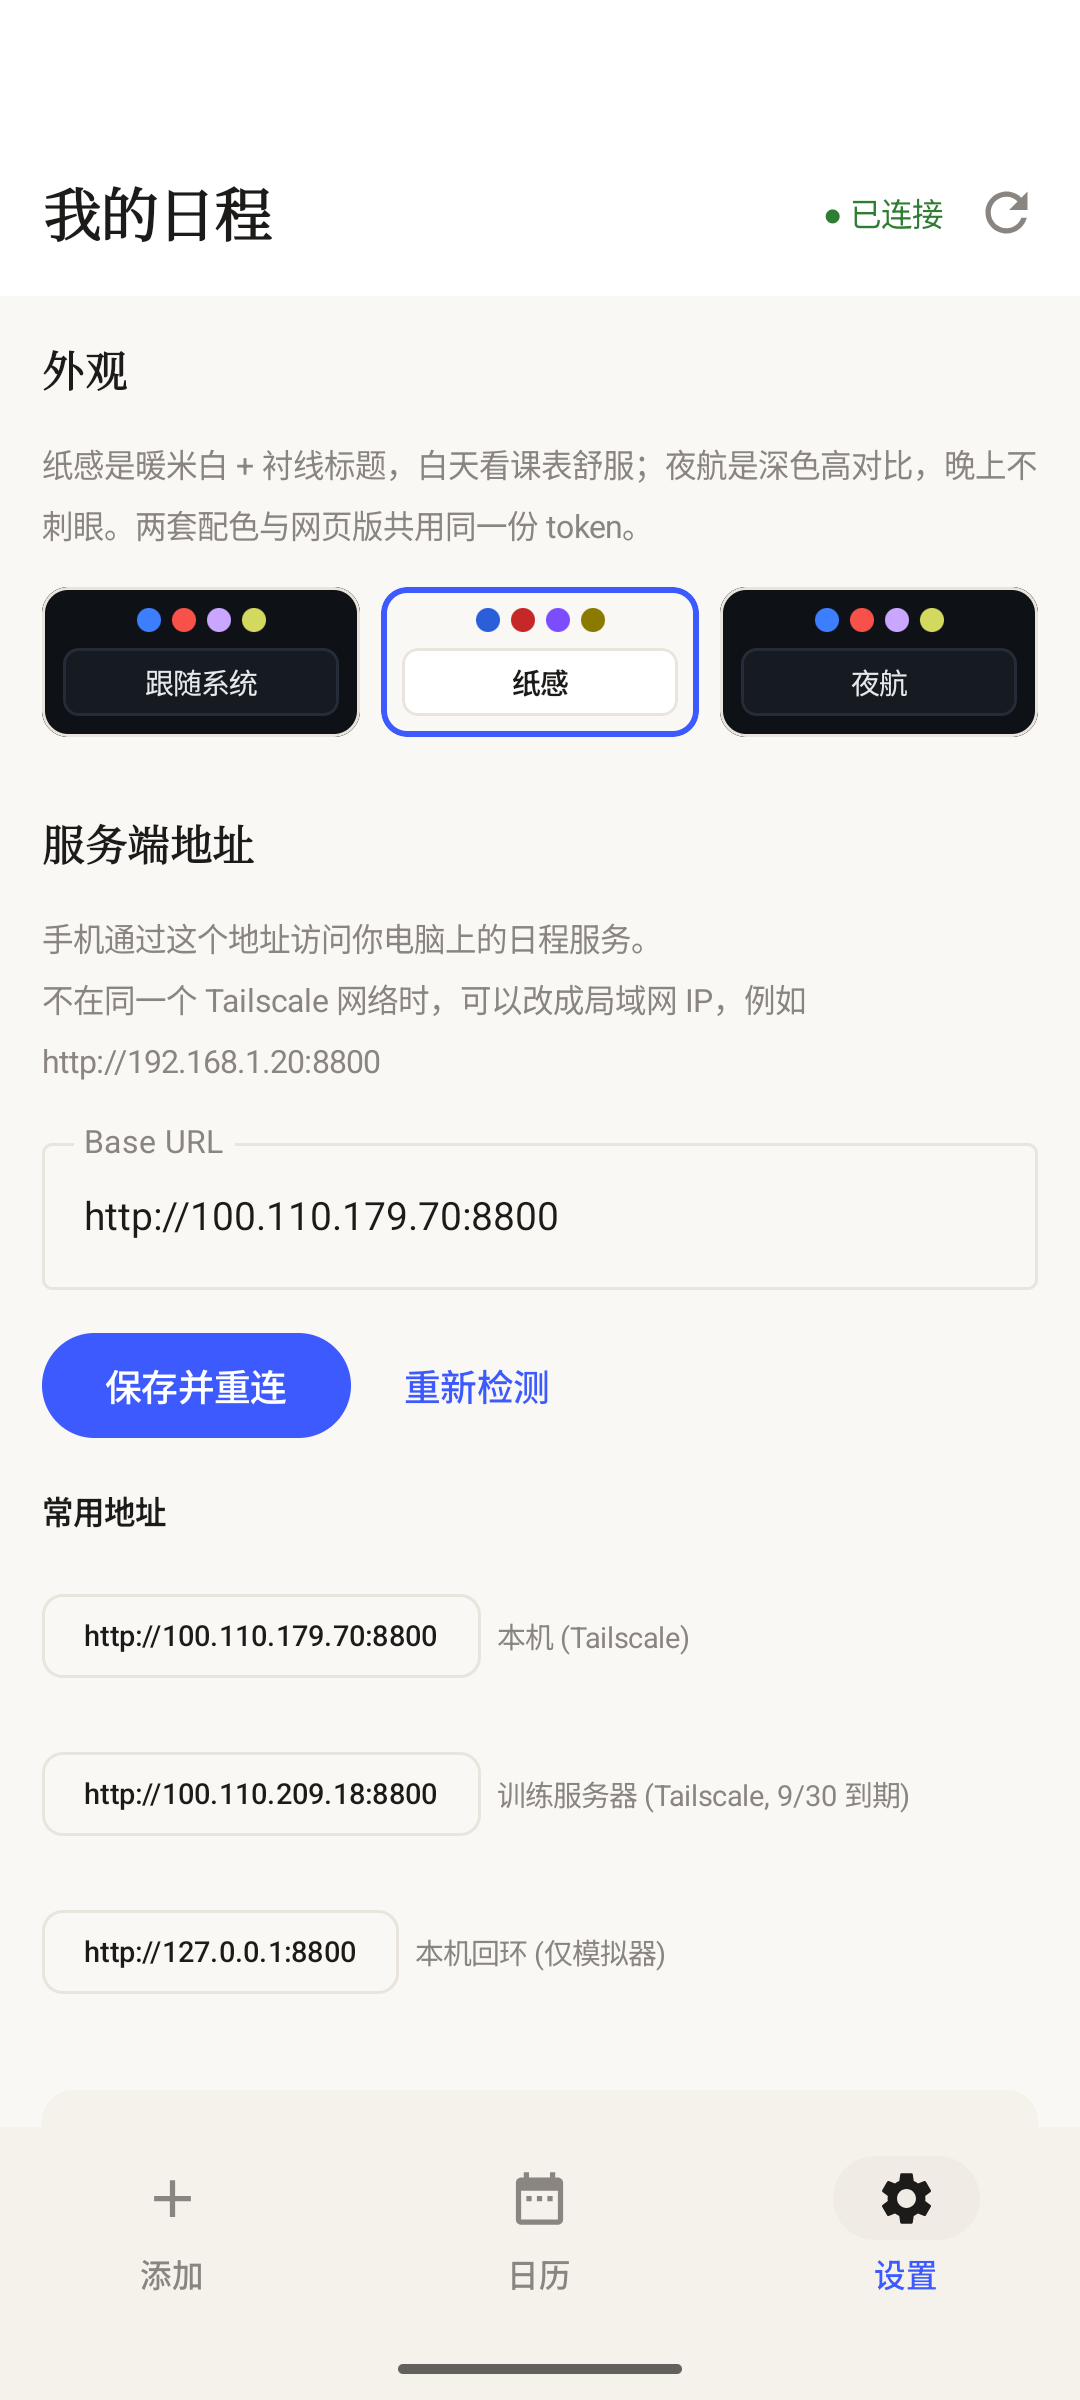
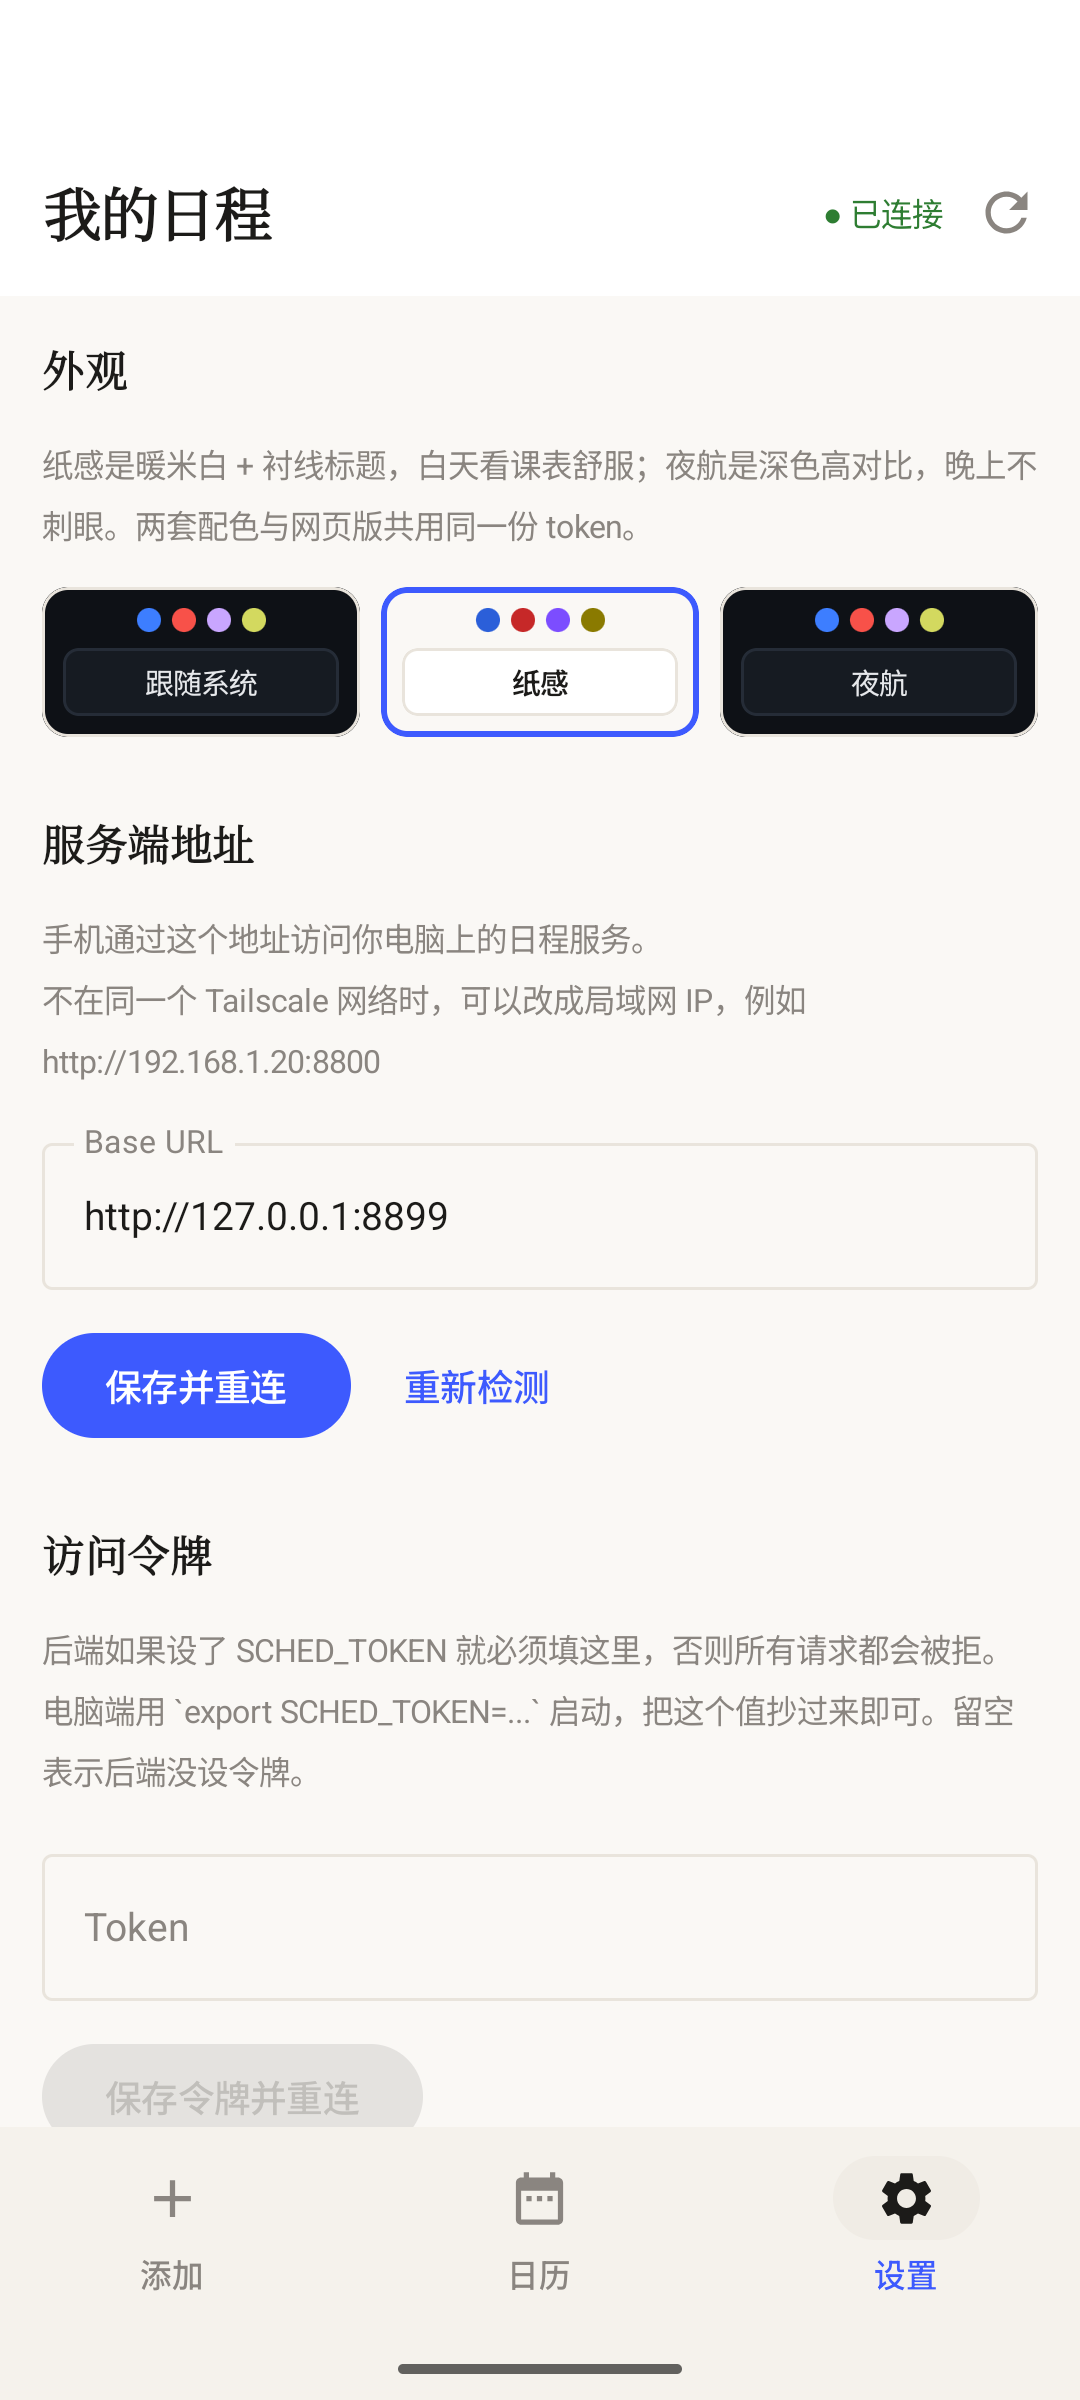
匿名评审前的脱敏：脚本路径、截图、示例数据
赛事（全国大学生软件创新大赛等）普遍要求**匿名评审** —— 材料里不得出现校名、
姓名、指导老师、学院、专业、班级。开源仓库和截图同样属于"材料"。

## 1. 脚本里的本机用户名（4 处）
local/*.ps1 里写死了 C:\Users\zaoch\anaconda3\python.exe，暴露本机用户名。
改成 $env:USERPROFILE 拼接。

## 2. 截图全部重拍（原来带真实 Tailscale IP）
旧的 android-night-settings.png 里能看到 100.110.179.70 和服务器
100.110.209.18，而且那还是改 Prefs 之前的旧图。7 张截图全部用中性数据重拍。

新增 scripts/seed_demo.py：生成一份中性演示数据（计算机原理/组会/高数期中/
实验报告/给家里打电话…），不含任何可定位到个人或学校的内容。
截图走 adb reverse + 127.0.0.1，界面里也不出现真实地址。

## 3. 示例数据里像凭据的内容
"记一下，实验室门禁密码是 8823" 这类示例备忘看起来像真凭据，换成日常内容。
（"快递取件码 8823" 保留 —— 那是人人都有的取件码，不构成敏感信息。）

## 4. 新增 scripts/privacy_audit.py 并接入 CI
扫邮箱/手机号/身份证/姓名拼音/本机用户名/学号/学校关键词/像凭据的示例。
**分了 HIGH 和提示两级** —— 不分级的话"学院""取件码"这类误报会让工具在 CI 里
没法用（第一次跑就有 124 处第三方库的 __author__ 邮箱）。
现在: HIGH 0 处, 退出码 0。

顺带把身份证正则收紧成真实格式（6 位地区码+8 位生日+3 位顺序+校验位），
原来只数位宽，把 gradle-wrapper.properties 里的 SHA256 哈希误判成身份证。

## 待人工确认（脚本查不到，必须看图）
- docs/screenshots/ 下 7 张图已逐张看过，无 IP、无姓名、无学校信息
- git 提交者身份是 liuxinyang@users.noreply.github.com（noreply 地址，安全）
- LICENSE 版权行是 GitHub 账号 Liu-XY2003，不含真实姓名

Changed region(s): [[0.0306, 0.625, 0.9472, 0.9062], [0.2139, 0.5, 0.5194, 0.5312], [0.3667, 0.8125, 0.6111, 0.8438]]

diff --git a/scripts/privacy_audit.py b/scripts/privacy_audit.py
@@ -29,22 +29,36 @@ ROOTS = [
 ]
 SKIP_DIRS = {".git", "build", ".gradle", ".idea", ".kotlin", "_archive", "_release",
              "backup", "bench", "models", "node_modules", "__pycache__", ".dsh",
-             "external", "generated"}
+             "external", "generated",
+             # 虚拟环境里全是第三方库, 扫它没有意义（会有上千条 __author__ 邮箱误报）
+             ".venv", "venv", ".venv-planner", "site-packages"}
 TEXT_EXT = {".md", ".py", ".kt", ".kts", ".ps1", ".sh", ".json", ".xml", ".yml",
             ".yaml", ".toml", ".properties", ".txt", ".service", ".gitignore",
             ".gitattributes", ".cfg", ".ini", ""}
 
-RULES = [
+# 分级: HIGH = 真能定位到具体的人, CI 里必须失败;
+#       INFO = 可能相关但通常无害（示例数据、通用词汇），只提示。
+# 不分级的话, 一堆"学院""取件码"之类的误报会让这个工具在 CI 里没法用。
+HIGH_RULES = [
     ("邮箱", re.compile(r"[A-Za-z0-9._%+-]+@[A-Za-z0-9.-]+\.[A-Za-z]{2,}")),
     ("手机号", re.compile(r"(?<!\d)1[3-9]\d{9}(?!\d)")),
-    ("身份证号", re.compile(r"(?<!\d)\d{17}[\dXx](?!\d)")),
+    # 真实身份证 = 6 位地区码 + 8 位出生日期 + 3 位顺序码 + 1 位校验码。
+    # 只数位宽会把 SHA256 哈希里的连续数字也误判成身份证。
+    ("身份证号", re.compile(
+        r"(?<!\d)[1-9]\d{5}(19|20)\d{2}(0[1-9]|1[0-2])(0[1-9]|[12]\d|3[01])\d{3}[\dXx](?!\d)")),
     ("可能的真实姓名(拼音)", re.compile(r"\b(liu[\s_-]?xiang[\s_-]?yang|zhang[\s_-]?san)\b", re.I)),
     ("本机用户名路径", re.compile(r"[\\/](Users|home)[\\/](zaoch|zao|liuxinyang)\b", re.I)),
-    ("学校/学院关键词", re.compile(
-        r"(北京[^\s,，。]{0,6}(大学|学院)|XX大学|学院|教务处|校团委|软件学院)")),
     ("学号样式", re.compile(r"\b(20\d{8}|U20\d{6})\b")),
-    ("实验室/门禁/密码", re.compile(r"(门禁|取件码|密码)[^\n]{0,20}\d{3,}")),
 ]
+
+INFO_RULES = [
+    ("学校/学院字样", re.compile(
+        r"(北京[^\s,，。]{0,6}(大学|学院)|XX大学|学院|教务处|校团委|软件学院)")),
+    ("像凭据的示例数据", re.compile(r"(门禁|取件码|密码)[^\n]{0,20}\d{3,}")),
+]
+
+RULES = HIGH_RULES + INFO_RULES
+HIGH_NAMES = {n for n, _ in HIGH_RULES}
 
 
 def walk(root: Path):
@@ -100,13 +114,16 @@ def git_authors():
 
 
 total, by_rule = scan()
+high_hits = sum(len(v) for k, v in by_rule.items() if k in HIGH_NAMES)
+
 print("=" * 78)
 print("个人信息扫描")
 print("=" * 78)
 if not by_rule:
     print("未发现明显个人信息")
 for name, hits in by_rule.items():
-    print(f"\n[{name}]  {len(hits)} 处")
+    level = "HIGH" if name in HIGH_NAMES else "提示"
+    print(f"\n[{level}] {name}  {len(hits)} 处")
     for h in hits[:12]:
         print("   ", h)
     if len(hits) > 12:
@@ -127,5 +144,9 @@ for root in ROOTS:
             continue
         print("  ", p.relative_to(root.parent))
 
-print(f"\n合计命中 {total} 处")
-sys.exit(1 if total else 0)
+print(f"\n合计 HIGH {high_hits} 处 / 提示 {total - high_hits} 处")
+if high_hits:
+    print("存在能定位到个人的信息, 匿名评审前必须处理。")
+    sys.exit(1)
+print("无 HIGH 项; 提示项请自行确认（示例数据、通用词汇通常可保留）。")
+sys.exit(0)

diff --git a/bridge/latency_test.py b/bridge/latency_test.py
@@ -10,7 +10,7 @@ import urllib.request
 API = os.environ.get("SCHED_API", "http://127.0.0.1:8800").rstrip("/")
 CASES = [
     "明天下午两点开会", "下周二上午九点计算机原理", "今晚提醒我买牛奶",
-    "下个月3号上午九点项目评审", "记一下门禁密码1234", "今天天气怎么样",
+    "下个月3号上午九点项目评审", "记一下充电宝要还", "今天天气怎么样",
     "加个明早八点的闹钟", "下下周五下午四点交报告", "十月23号下午10点19买鲜花",
     "下下周二上午九点加一门计算机原理，在教三201",
 ]

diff --git a/bridge/seed_calendar.py b/bridge/seed_calendar.py
@@ -27,7 +27,7 @@ SEEDS = [
     "下周三下午三点有数据结构期中考试",
     "每天早上七点提醒我背单词",
     "今晚九点提醒我跑步",
-    "记一下，实验室门禁密码是 8823",
+    "记一下，备用钥匙放在抽屉第二层",
 ]
 
 print("\n=== 逐条添加 ===")

diff --git a/local/seed.py b/local/seed.py
@@ -27,7 +27,7 @@ SEEDS = [
     "下周三下午三点有数据结构期中考试",
     "下个月3号上午九点项目评审",
     "加个明早八点的闹钟",
-    "记一下，实验室门禁密码是 8823",
+    "记一下，备用钥匙放在抽屉第二层",
 ]
 ok = 0
 for s in SEEDS:
